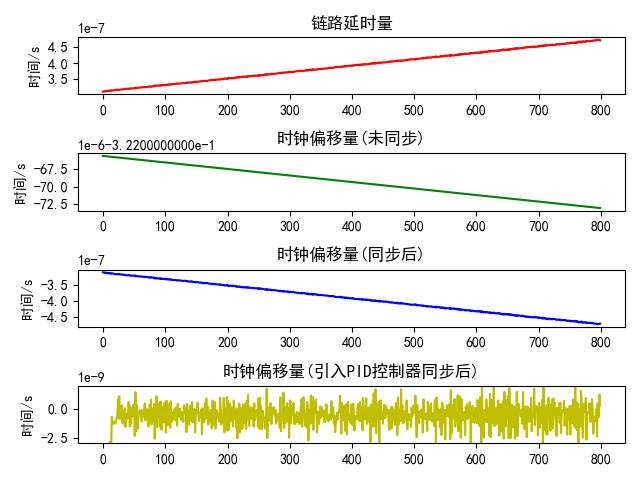
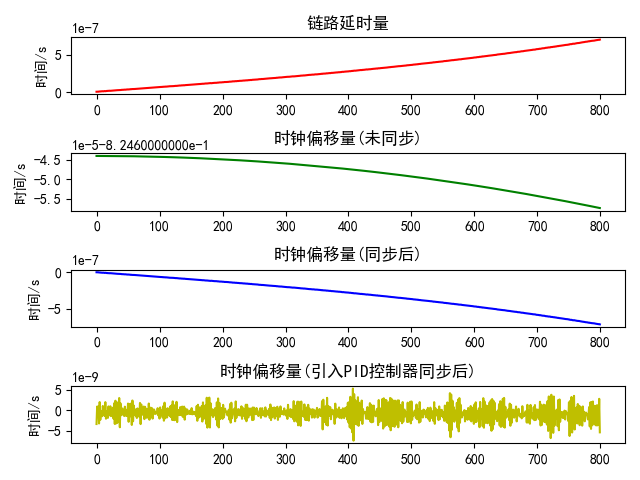
res

diff --git a/ptp_py/SIMU/clock_sync.py b/ptp_py/SIMU/clock_sync.py
@@ -9,7 +9,7 @@ D = 1e-12
 class clock:
     def __init__(self):
         self.b = random.random()
-        self.f = 1/random.uniform(32,33) * 1e-6
+        self.f = 1/random.uniform(31,33) * 1e-6
         print('b =', self.b, 'f =', self.f)
     def clockdata(self,t):
             y = self.b + self.f * t + 1/2 * D * t * t
@@ -69,11 +69,11 @@ M = 800
 t = 0
 for i in range(0,M):
     nodeA.t1.append(C1.clockdata(t))
-    t = t + random.random() * 1e-1 + 0
+    t = t + random.random() * 1e-1 + 0.05 + i/50.0
     nodeA.t2.append(C2.clockdata(t))
     t = t + random.random() * 1e-6
     nodeA.t3.append(C2.clockdata(t))
-    t = t + random.random() * 1e-1 + 0
+    t = t + random.random() * 1e-1 + 0.05 + i/50.0
     nodeA.t4.append(C1.clockdata(t))
     t = t + random.random() * 1e-6
 
@@ -111,17 +111,15 @@ def node_handle(node_v):
     axes_v[2].set_ylabel('时间/s')
     axes_v[2].set_title('时钟偏移量(同步后)')
 
-    pid = pidAbs(0.2,0.4,0,0.1)
+    pid = pidAbs(0.3,1.2,0,0.1)
     out = 0
     for i in range(0,M):
         offset_tmp = node_v.t1[i] - node_v.t2[i] + node_v.offset[i] + out
         out = pid.update(0,offset_tmp)
         node_v.offset_update_pidinc.append(offset_tmp)
 
-    print(node_v.offset_update_pidinc)
     axes_v[3].plot(t, node_v.offset_update_pidinc, 'y')
-    axes_v[3].set_ylabel('时间/s')
-    axes_v[3].set_ylim(-3.0e-9,2.0e-9)  
+    axes_v[3].set_ylabel('时间/s') 
     axes_v[3].set_title('时钟偏移量(引入PID控制器同步后)')
 
     plt.tight_layout()
